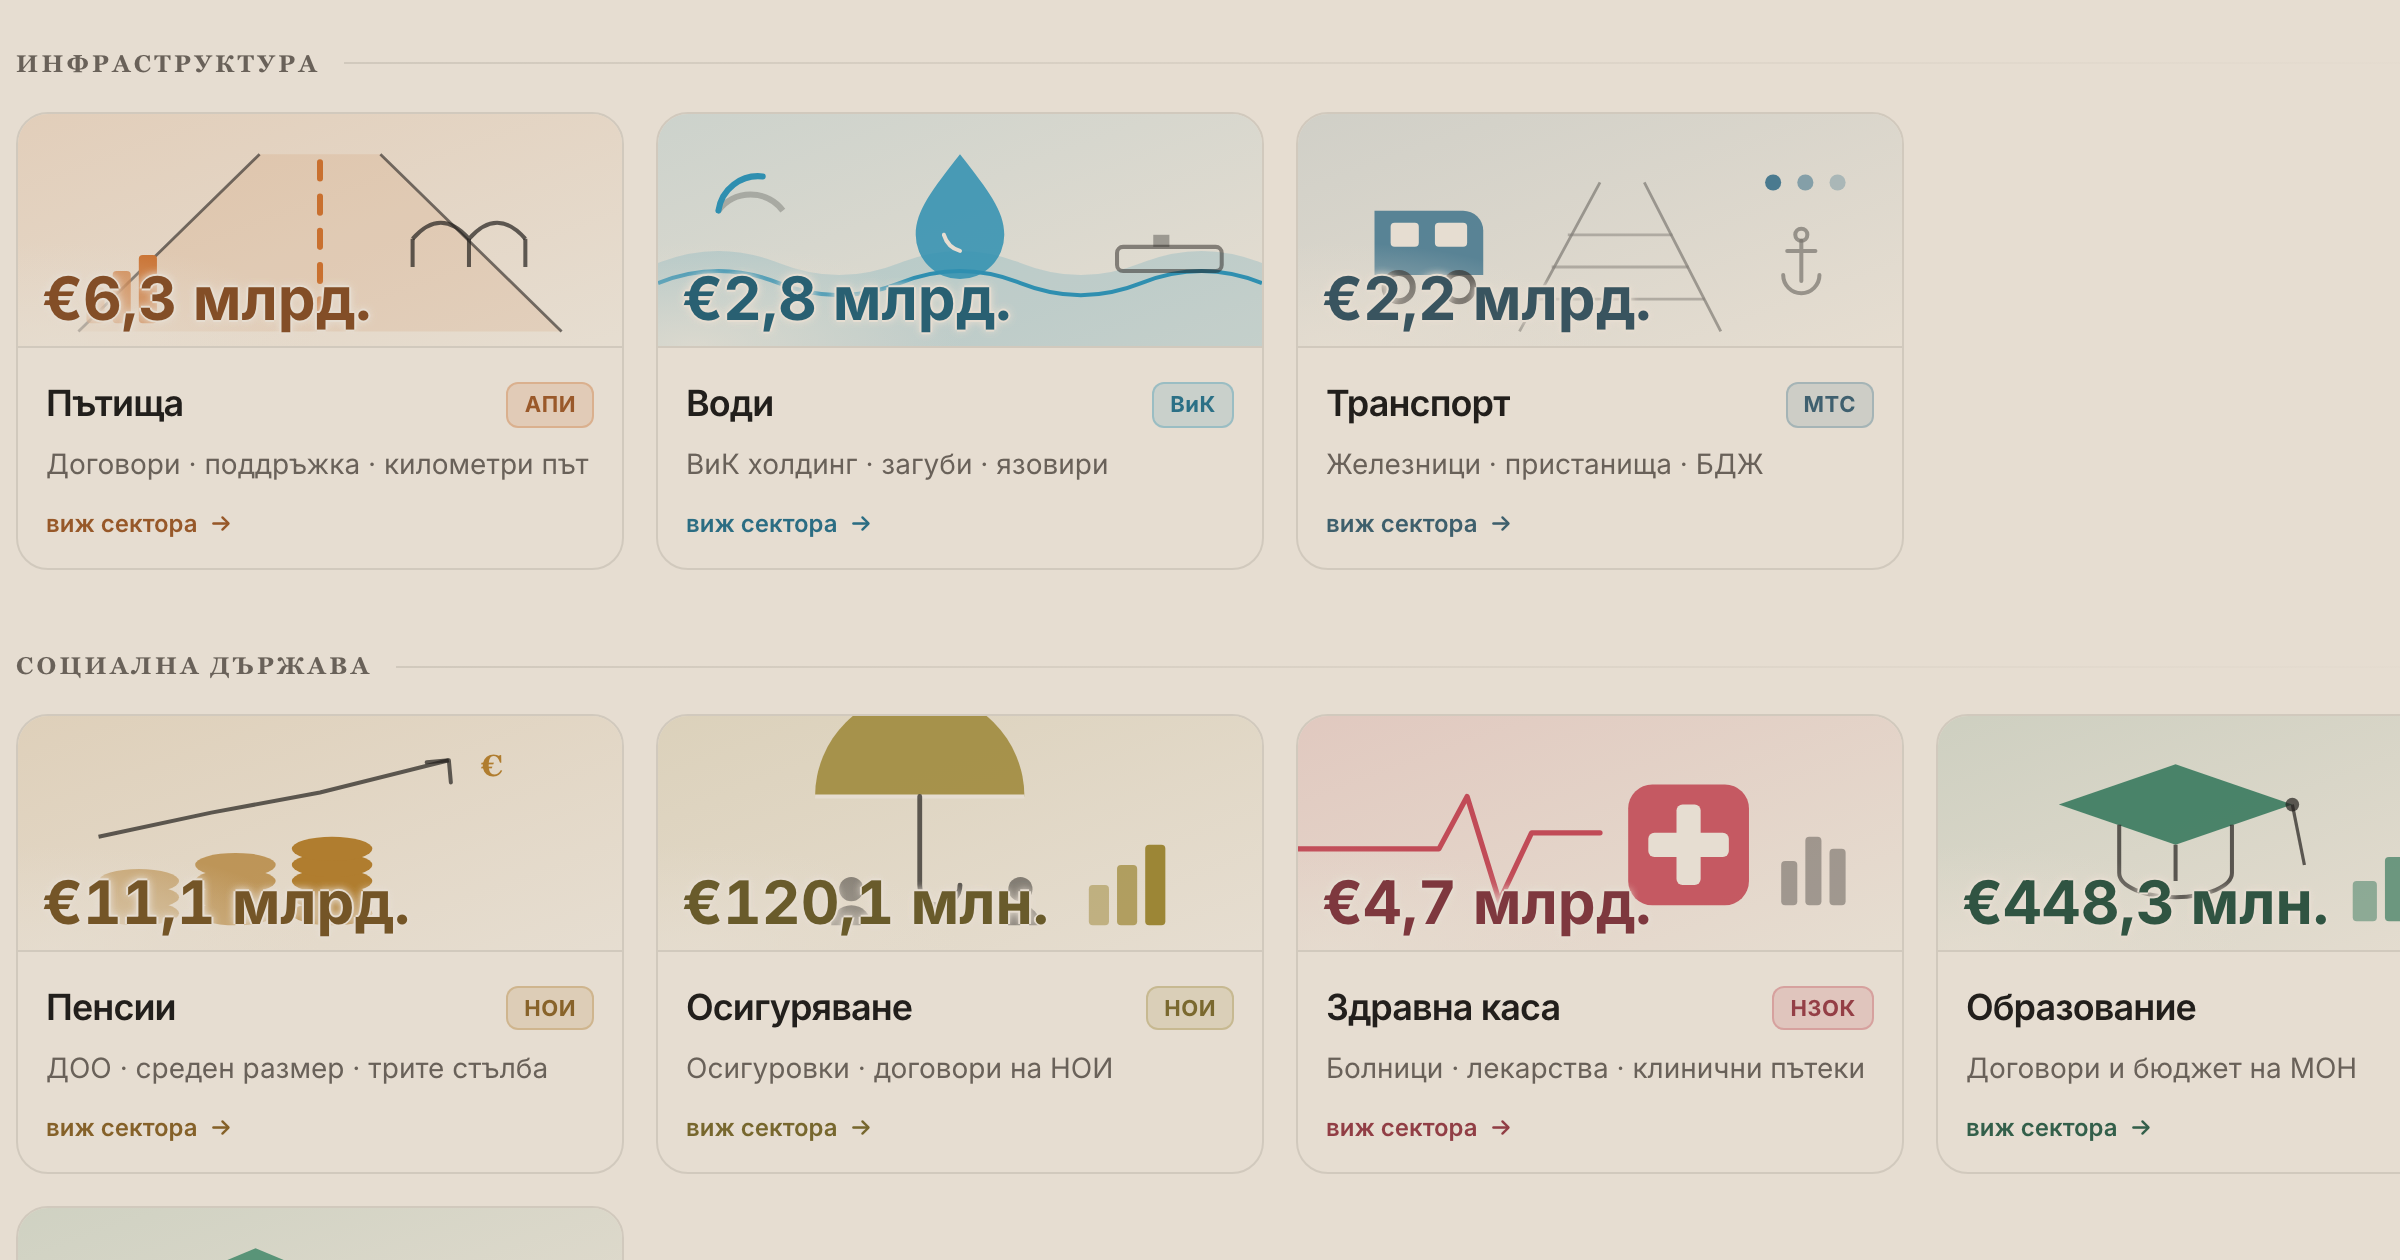
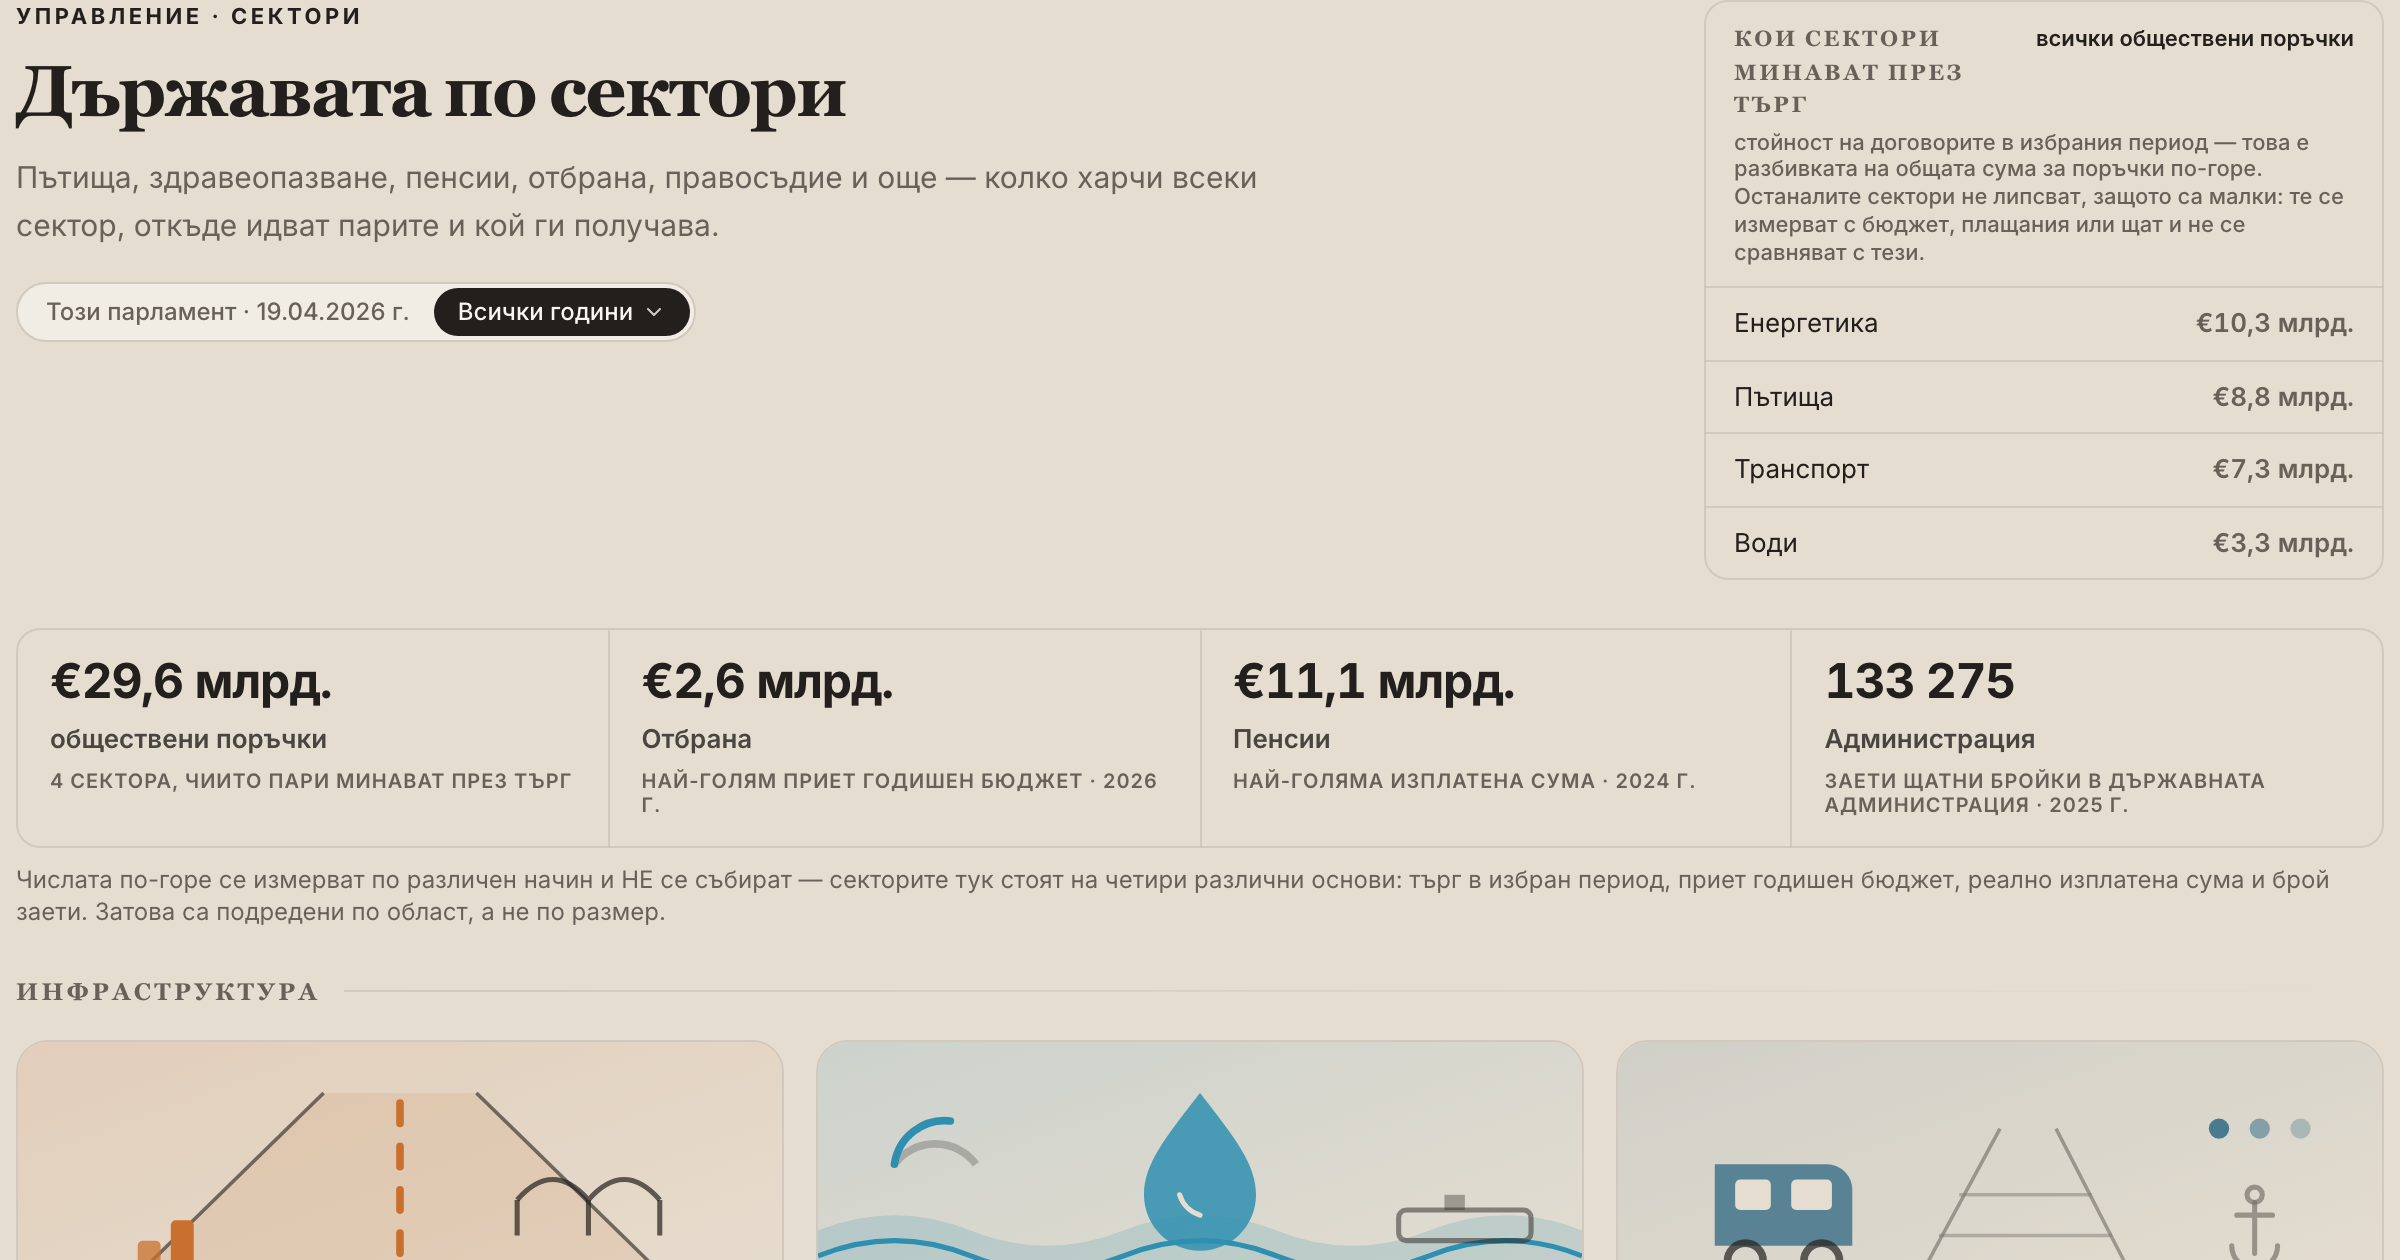
sectors hub head: a card of the head, and a wait that counts the cells instead of naming them
The governance-sectors card anchored on the tile grid — right for a tile hub, wrong the
moment the page grew a head: it led with tile fronts and cut the band, the note and the
aside, which is where this page's argument lives. Re-anchored on [data-hub-head] with the
shared OG clip viewport, and re-shot. The entry's comment also said "the 15-sector tile
hub" and named the "matura score" basis; the hub carries nineteen sectors and that basis
was retired in 2026-08.

⚠ The first cut of the wait could not refuse a short card, which is the one thing a
waitFor exists to do. It asked for a /procurement cell AND a /sector/ aside row — but
those two clauses are LOGICALLY EQUIVALENT here, because sectorsHubEvidence filters on
exactly the predicate that produces the procurement cell, so aside-present implies
procurement-cell-present and back. Simulated over all 30 scope keys in the committed
payload: it refused 1, and that one was the LEAST short at three cells, while all four
one-cell bands sailed through — each being the procurement cell with a full four-row
aside. The sibling chain asserts LENGTH, which is what was meant; measured against the
live head, it matches a full band and returns 0 on a three-cell and a one-cell one.

`:has(aside a)` rather than a path prefix, because the rail's rows link to each sector's
own page and one of them is /water, not /sector/water — a prefix would refuse a good head
on any scope where water were the only publishable roster.
[…]

diff --git a/scripts/prerender/ogAndSitemapCoverage.test.ts b/scripts/prerender/ogAndSitemapCoverage.test.ts
@@ -950,19 +950,21 @@ describe("a hub's og capture anchors on its head", () => {
   /** Hubs whose card does not yet frame the head, with the reason. A real debt, named so the
    *  list shrinks rather than the rule. */
   const NOT_YET: Record<string, string> = {
-    // ⚠ `governance-sectors` grew a head on 2026-08-26 and its card still anchors on the
-    // tile grid. Unlike `culture` before it, the card IS shot from this page — only the
-    // anchor is wrong — so this is a one-line change plus a re-shoot, taken in the
-    // share-card step rather than the one that built the band. Listed rather than left
-    // unregistered so the map's „every HubHead screen is named" clause still sees it.
-    "governance-sectors":
-      "its card anchors on the tile grid; re-anchor on the head and re-shoot",
-    // WAS EMPTY AGAIN as of 2026-08-26, briefly. It held `culture` for the length of one commit, while
-    // /culture had a head and no card of its own: `/og/culture.png` is shot from
-    // /culture/subsidies and is shared by SIX routes, so the hub's card depicted the film
-    // dashboard — 13% of the money the hub exists to put in proportion. The debt is paid by
-    // the `culture-hub` slug, and the entry is gone rather than left behind as a stale
-    // exemption.
+    // EMPTY AGAIN as of 2026-08-26, having been used TWICE that day and paid off both
+    // times within a commit — which is the pattern this map is for.
+    //
+    //   `culture` — /culture had a head and no card of its own: `/og/culture.png` is shot
+    //   from /culture/subsidies and was shared by SIX routes, so the hub's card depicted
+    //   the film dashboard, 13% of the money the hub exists to put in proportion. Paid by
+    //   a new `culture-hub` slug.
+    //
+    //   `governance-sectors` — the card WAS shot from this page; only the anchor was the
+    //   tile grid, so it led with tile fronts and cut the band and the aside. Paid by
+    //   re-anchoring on `[data-hub-head]` and re-shooting.
+    //
+    // Both entries are gone rather than left behind as stale exemptions. The distinction
+    // between the two is worth keeping: the first needed a new card, the second only a new
+    // anchor, and only the first could not be cleared by a re-shoot.
   };
 
   /** One capture entry's text, by slug. */
@@ -1110,13 +1112,21 @@ describe("a hub's og capture anchors on its head", () => {
     // reddens nothing. PER-HUB rather than global, so an unrelated hub is not reddened by a
     // sibling's edit; the same measurement the HubHead line above rests on applies here too:
     // folding both in reddens zero additional cards today.
-    const FIGURES: Record<string, string> = {
+    // ⚠ A HUB MAY DECLARE MORE THAN ONE SOURCE, and `governance-sectors` is why. Its
+    // figures come from a GIT-TRACKED payload (data/procurement/derived/sector_stats.json),
+    // unlike the `/api/db` heads whose numbers move with no tracked file — so a corpus
+    // reload CAN redden its card here, and the only reason it would not is this map holding
+    // one path per slug.
+    const FIGURES: Record<string, string | string[]> = {
       budget: "src/screens/budget/budgetHubFigures.ts",
       funds: "src/screens/funds/fundsHubFigures.ts",
       consumption: "src/screens/consumption/consumptionHubFigures.ts",
       subsidies: "src/screens/subsidies/subsidiesHubFigures.ts",
       "culture-hub": "src/screens/culture/cultureHubFigures.ts",
-      "governance-sectors": "src/screens/governance/sectorsHubFigures.ts",
+      "governance-sectors": [
+        "src/screens/governance/sectorsHubFigures.ts",
+        "data/procurement/derived/sector_stats.json",
+      ],
       "governance-declarations":
         "src/screens/governance/declarationsHubFigures.ts",
     };
@@ -1189,16 +1199,19 @@ describe("a hub's og capture anchors on its head", () => {
         0,
       );
       expect(page, `no commit found for ${screen}`).toBeGreaterThan(0);
-      const extra = FIGURES[slug];
-      const extraAt = extra ? at(extra) : 0;
-      if (extra)
-        expect(extraAt, `no commit found for ${extra}`).toBeGreaterThan(0);
+      const extras =
+        FIGURES[slug] === undefined
+          ? []
+          : Array.isArray(FIGURES[slug])
+            ? FIGURES[slug]
+            : [FIGURES[slug] as string];
+      const extraPairs: [string, number][] = extras.map((rel) => {
+        const t = at(rel);
+        expect(t, `no commit found for ${rel}`).toBeGreaterThan(0);
+        return [rel, t];
+      });
       const sources: [string, number][] = (
-        [
-          [screen, page],
-          [HEAD, headAt],
-          ...(extra ? ([[extra, extraAt]] as [string, number][]) : []),
-        ] as [string, number][]
+        [[screen, page], [HEAD, headAt], ...extraPairs] as [string, number][]
       ).filter(([rel]) => !exempt(rel));
       // Every source exempted — nothing left to compare this card against, which must not
       // read as „current". Cannot happen while `screen` is never exemptible, and asserted

diff --git a/scripts/og/capture-screens.ts b/scripts/og/capture-screens.ts
@@ -1350,13 +1350,42 @@ const captures: Capture[] = [
   {
     slug: "governance-sectors",
     routePath: "governance/sectors?pscope=all",
-    // The 15-sector tile hub. Anchor on the tiles wrapper and top-align so the
-    // card leads with the first cluster of infographic tiles + their headline
-    // numbers (payouts / procurement € / matura score). ?pscope=all for the
-    // full-corpus figures on the tender-driven sectors.
-    waitFor: '[data-og="sectors-hub"] a',
-    anchor: '[data-og="sectors-hub"]',
-    leftAlign: true,
+    // ⚠ RE-ANCHORED ON THE HEAD (§5.3), 2026-08-26. It anchored on the tile grid — right
+    // for a tile hub, and wrong the moment the page grew a head: the card led with tile
+    // fronts and cut the band and the aside, which is where this page's actual argument is.
+    // `?pscope=all` stays, for the full-corpus figures on the tender-driven sectors.
+    //
+    // The comment said „the 15-sector tile hub" and „matura score"; the hub carries
+    // NINETEEN sectors and the `score` basis was retired in 2026-08 (useSectorStats' header
+    // records it).
+    //
+    // ⚠ THE WAIT COUNTS THE CELLS, because naming them cannot. A band cell is withheld
+    // whenever its basis has no publishable sector — measured over the committed payload,
+    // the band is short on 12 of 30 scope keys, distribution {1:4, 2:4, 3:4, 4:18} — and
+    // this card must not be overwritten by a short one and reported as success.
+    //
+    // The first cut asked for a `/procurement` cell AND an `/sector/` aside row. Both
+    // clauses are LOGICALLY EQUIVALENT here: `sectorsHubEvidence` filters on exactly the
+    // predicate that produces the procurement cell, so aside-present ⟺ procurement-cell-
+    // present. It refused 1 of the 30 keys, and that one was the LEAST short at three cells,
+    // while all four one-cell bands sailed through — each of them being the procurement cell
+    // with a full four-row aside. The sibling chain below asserts LENGTH, which is the thing
+    // that was actually meant.
+    //
+    // `:has(aside a)` rather than a path prefix: the rail's rows link to each sector's own
+    // page and one of them is `/water`, not `/sector/water`, so a prefix would refuse a
+    // perfectly good head on any scope where water were the only publishable roster.
+    //
+    // ⚠ AN ABSENT PAYLOAD IS CAUGHT: band and aside both come from the one artifact, so a
+    // 404 renders neither, this times out and the previous card survives. Figure STALENESS
+    // is caught too on this hub — unlike the `/api/db` heads, its payload
+    // (data/procurement/derived/sector_stats.json) is GIT-TRACKED, so the coverage gate's
+    // freshness clause compares the card against it. §10's „look at the png" is still the
+    // only thing that can judge the picture.
+    waitFor:
+      "[data-hub-head]:has(aside a) [data-kpi-cell] ~ [data-kpi-cell] ~ [data-kpi-cell] ~ [data-kpi-cell]",
+    anchor: "[data-hub-head]",
+    viewport: OG_CLIP_VIEWPORT,
     settleMs: 3000,
   },
   {

diff --git a/src/screens/governance/sectorsHubFigures.ts b/src/screens/governance/sectorsHubFigures.ts
@@ -176,7 +176,7 @@ export const sectorsHubKpis = (
  *
  *  ⚠ IT COUNTS THE SECTORS' BASES, NOT THE BAND'S CELLS, and the first cut got that wrong.
  *  It said „четирите числа" — but a cell is withheld whenever its basis has no publishable
- *  sector, and over the committed payload the band is short on 8 of 30 scope keys (cell
+ *  sector, and over the committed payload the band is short on 12 of 30 scope keys (cell
  *  counts {1:4, 2:4, 3:4, 4:18}). On `ns:2005_06_25` it named „поръчките" while that cell
  *  was absent entirely, all four rosters being €0 before the corpus starts. The sentence now
  *  describes the four bases the SECTORS sit on, which is true at every scope and of every

diff --git a/src/screens/governance/sectorsHubFigures.test.ts b/src/screens/governance/sectorsHubFigures.test.ts
@@ -205,7 +205,7 @@ describe("the procurement basis", () => {
 describe("the bases note", () => {
   it("says they do not combine, on a band of ANY length", () => {
     // ⚠ THE NOTE MUST NOT COUNT THE CELLS. It said „четирите числа" and the band is short
-    // on 8 of 30 scope keys — on one of them it named „поръчките" while that cell was
+    // on 12 of 30 scope keys — on one of them it named „поръчките" while that cell was
     // withheld. The sentence now describes the four bases the SECTORS sit on, which is true
     // at every scope, so the same key is right for a two-cell band as for a four.
     expect(sectorsKpiNote(band(), t)).toBe("sectors_kpi_note");
